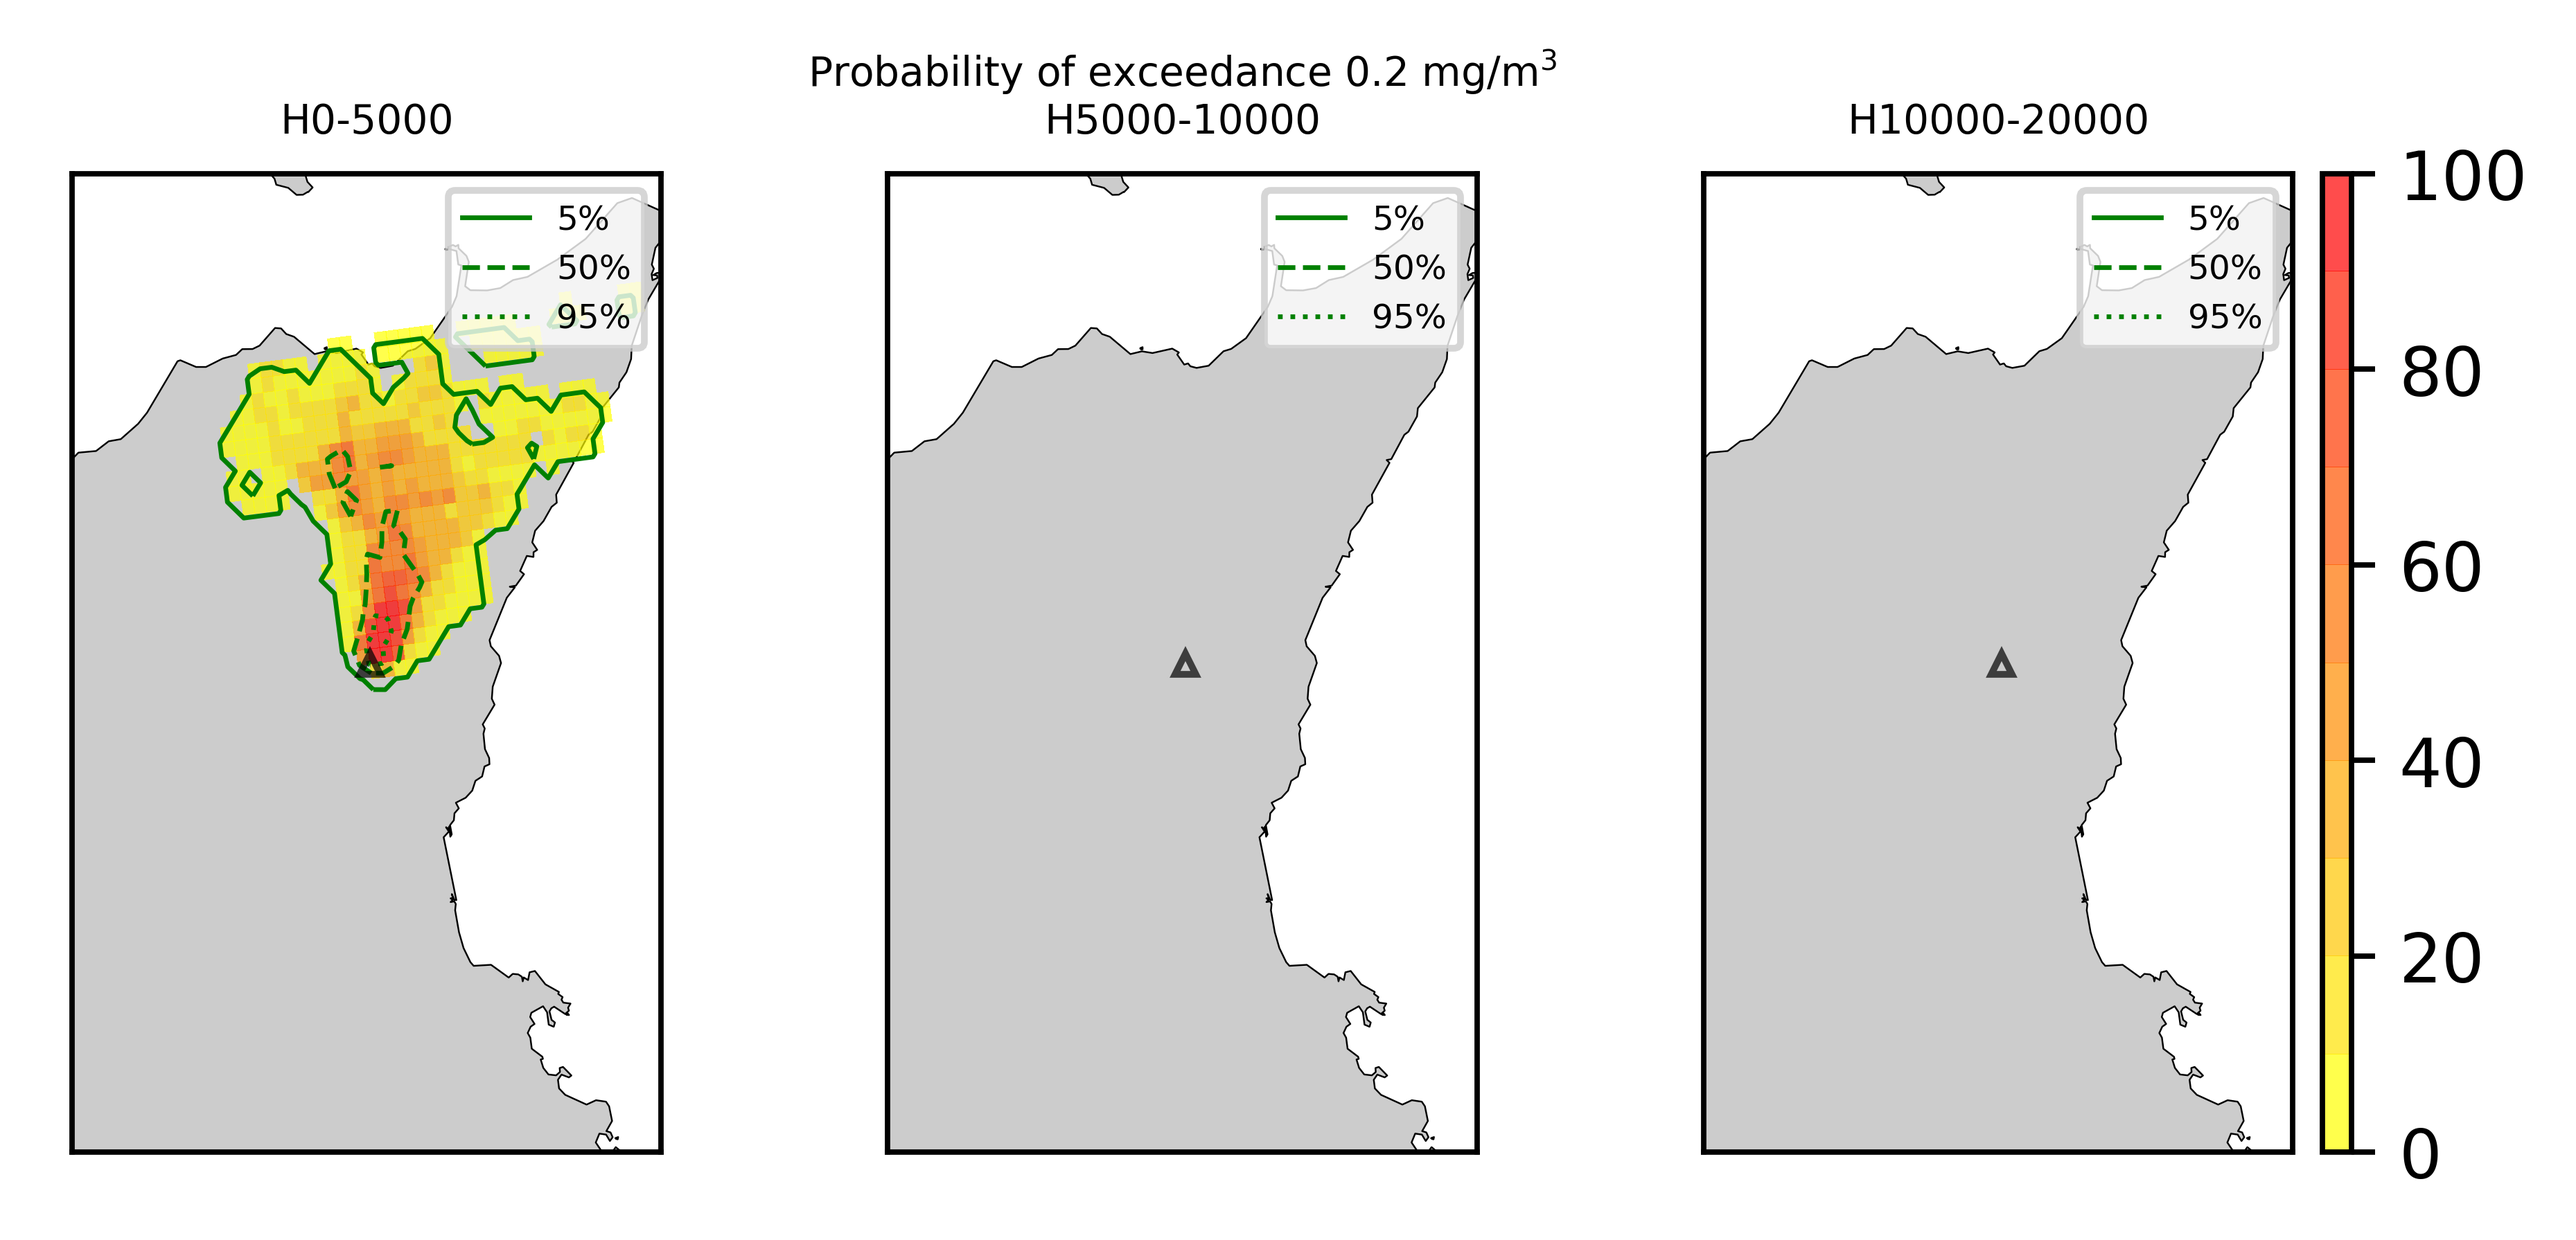
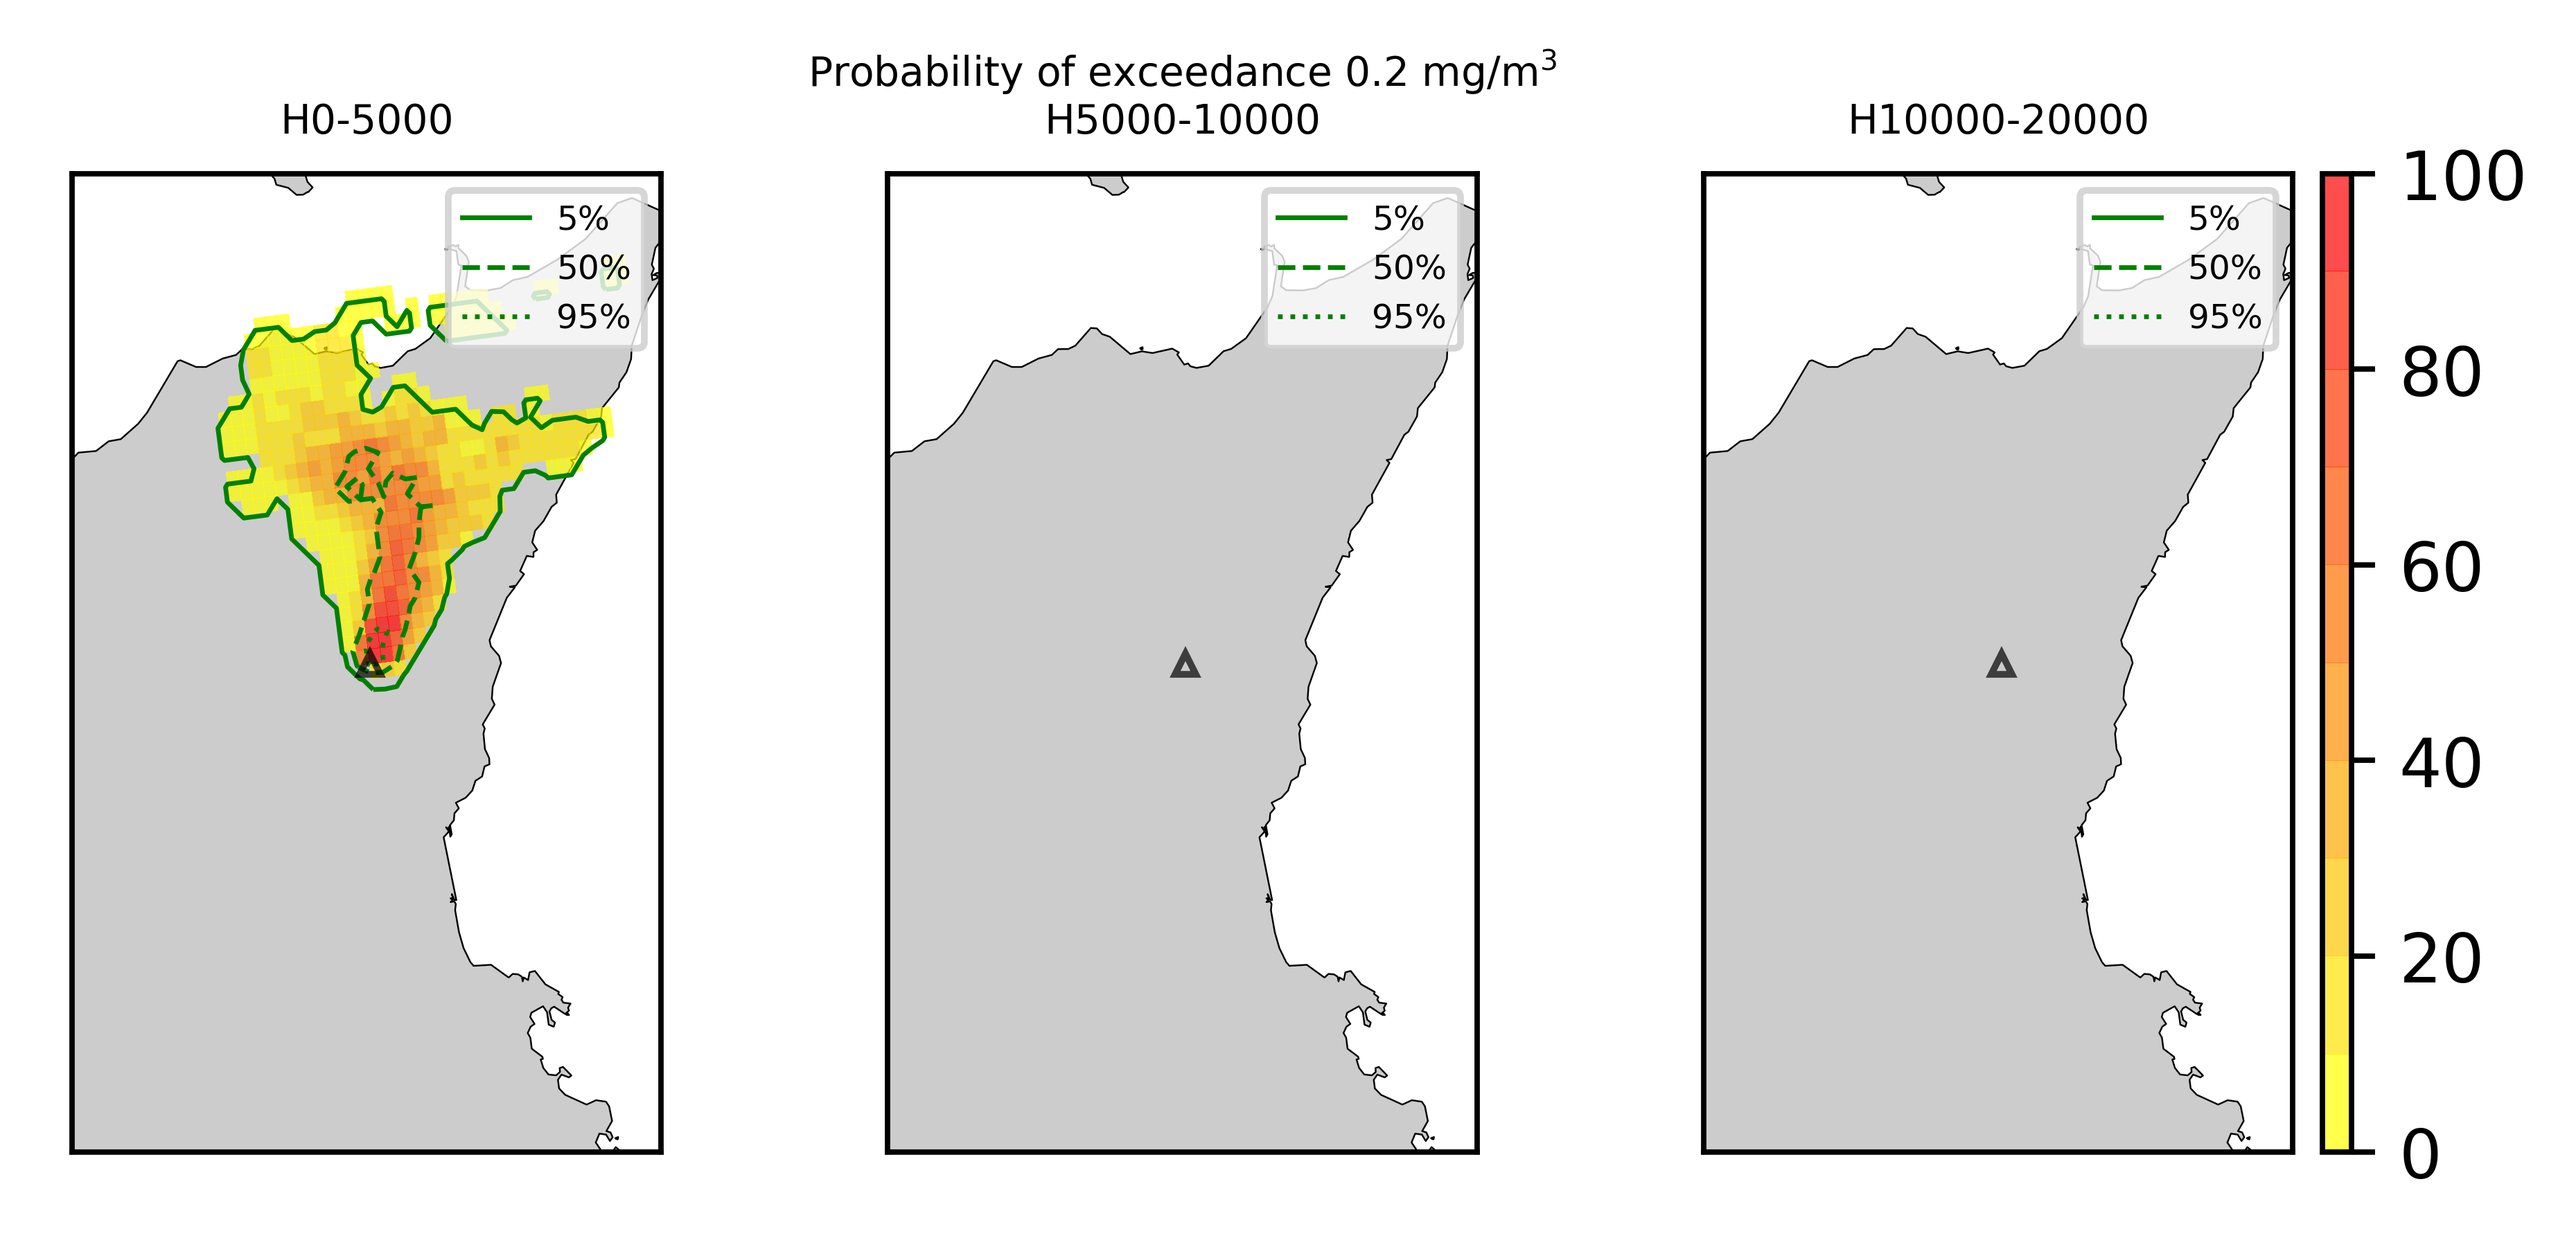
upload results

Changed region(s): [[0.0936, 0.215, 0.2496, 0.5528], [0.0624, 0.3071, 0.0936, 0.3378]]

diff --git a/FORECAST_RESULTS/20210304_0228Z/README.md b/FORECAST_RESULTS/20210304_0228Z/README.md
@@ -13,6 +13,7 @@ Contents
 	* [Forecast at 2021-03-04 11:30 Z from RED VONA issued at 20210304_0228Z](#forecast-at-2021-03-04-1130-z-from-red-vona-issued-at-20210304_0228z)
 	* [Forecast at 2021-03-04 14:30 Z from RED VONA issued at 20210304_0228Z](#forecast-at-2021-03-04-1430-z-from-red-vona-issued-at-20210304_0228z)
 	* [Forecast at 2021-03-04 08:50 Z from RED VONA issued at 20210304_0755Z](#forecast-at-2021-03-04-0850-z-from-red-vona-issued-at-20210304_0755z)
+	* [Forecast at 2021-03-04 08:50 Z from RED VONA issued at 20210304_0751Z](#forecast-at-2021-03-04-0850-z-from-red-vona-issued-at-20210304_0751z)
 
 # Forecast products
 
@@ -434,6 +435,66 @@ Contents
   
 
 ### Atmosphere 2021-03-04 08:50 Z
+
+## Forecast at 2021-03-04 08:50 Z from RED VONA issued at 20210304_0751Z
   
+
+|Eruption start [Z]|Eruption end [Z]|Forecast time [Z]|Column height asl [m]|
+| :--- | :--- | :--- | :--- |
+|2021-03-04 02:30:00|Ongoing|2021-03-04 08:50:00|6000 ± 500 - from VONA|
+  
+  
+
+|Percentile|MER [kg/s¹]|Mass air [kg]|Mass air nested dom. [kg]|Mass grd [kg]|Mass grd nested dom. [kg]|
+| :--- | :--- | :--- | :--- | :--- | :--- |
+|5th|1.87e+03|2.55e+06|2.55e+06|4.36e+07|4.36e+07|
+|50th|5.09e+03|7.24e+06|7.24e+06|7.92e+07|7.92e+07|
+|95th|1.74e+04|1.76e+07|1.76e+07|1.37e+08|1.37e+08|
+  
+
+### Ground Nested Domain 2021-03-04 08:50 Z
+  
+![](./figures/probability_grd_2021_03_04_0850_grid_1_1001.png)  
+  
+  
+  
+  
+  
+  
+  
+  
+  
+  
+  
+  
+  
+  
+  
+  
+
+|Location|Ground load [kg/m²] 5th perc|Ground load [kg/m²] 50th perc|Ground load [kg/m²] 95th perc|
+| :--- | :--- | :--- | :--- |
+|Piano Provenzana (1)|2.50e-02|1.72e-01|3.43e-01|
+|Bivio Provenzana-Linguaglossa (2)|9.95e-03|1.09e-01|2.75e-01|
+|Cunetta pre-Citelli (3)|7.39e-03|1.45e-01|4.20e-01|
+|Chalet (4)|9.76e-04|2.14e-02|1.11e-01|
+|Ragabo (5)|4.04e-03|3.88e-02|1.28e-01|
+|Scilio (6)|1.00e-06|1.41e-03|1.28e-02|
+|Gambino vini (7)|0.00e+00|2.63e-03|1.79e-02|
+|StazioneFce Linguaglossa (8)|0.00e+00|1.22e-03|1.00e-02|
+|Linguaglossa Via Olivio Sozzi (9)|0.00e+00|1.64e-03|1.15e-02|
+|Cim.Linguaglossa (10)|0.00e+00|4.54e-04|8.59e-03|
+|Gole Bar (11)|0.00e+00|7.50e-06|3.76e-03|
+|Francavilla - Orange (12)|0.00e+00|2.77e-05|7.01e-04|
+|Roccalumera1 (13)|0.00e+00|0.00e+00|6.17e-07|
+|Roccalumera2 (14)|0.00e+00|0.00e+00|0.00e+00|
+|Nizza (15)|0.00e+00|0.00e+00|0.00e+00|
+|Scaletta Zanclea (16)|0.00e+00|0.00e+00|0.00e+00|
+|Alì (17)|0.00e+00|0.00e+00|0.00e+00|
+  
+
+### Atmosphere 2021-03-04 08:50 Z
+  
+![](./figures/probability_air_2021_03_04_0850_grid_2_conclev_1_1001.png)  
 Go to [Supplementary page](Supplementary_page.md)  
 Go to [Main directory](https://github.com/federicapardini/Real_time_ash_forecast)
